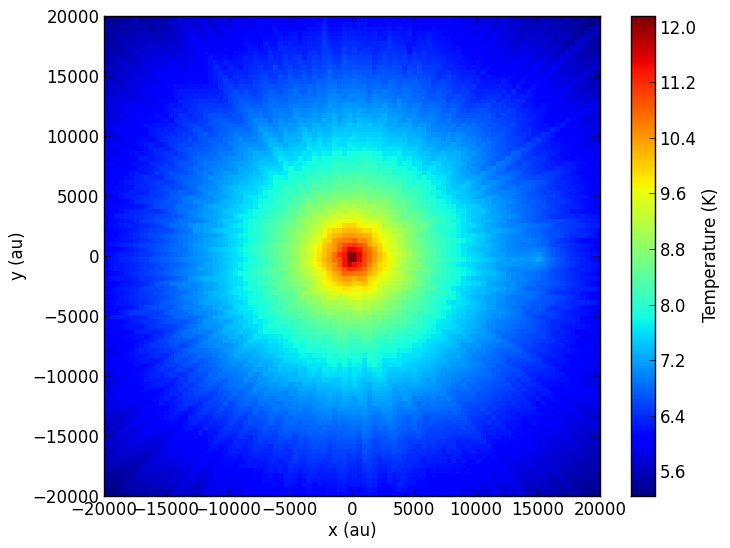
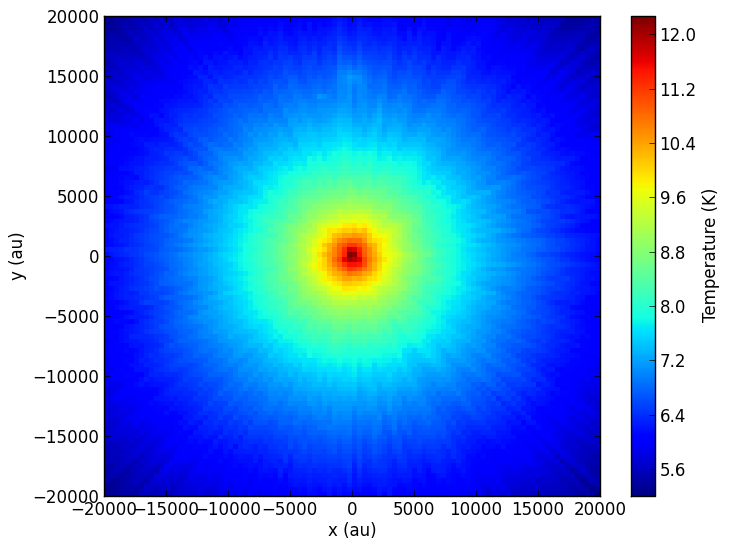
now viewed from z direction

diff --git a/visual.py b/visual.py
@@ -5,7 +5,7 @@ from hyperion.model import ModelOutput
 from hyperion.util.constants import pc, au
 
 # Read in the model
-m = ModelOutput('input_withoutproxima.rtout')
+m = ModelOutput('input_lessdense.rtout')
 
 # Extract the quantities
 g = m.get_quantities()
@@ -18,8 +18,8 @@ X, Y = np.meshgrid(xw, yw)
 
 # Calculate the density-weighted temperature
 weighted_temperature =  np.sum(g['temperature'][0].array \
-                               * g['density'][0].array, axis=2)\
-                        / np.sum(g['density'][0].array, axis=2)
+                               * g['density'][0].array, axis=0)\
+                        / np.sum(g['density'][0].array, axis=0)
 
 # Make the plot
 fig = plt.figure()
@@ -31,7 +31,7 @@ ax.set_xlabel('x (au)')
 ax.set_ylabel('y (au)')
 cb = fig.colorbar(c)
 cb.set_label('Temperature (K)')
-fig.savefig('weighted_temperature_cartesian_withoutproxima.png', bbox_inches='tight')
+fig.savefig('weighted_temperature_cartesian_lessdense.pdf', bbox_inches='tight')
 
 fig = plt.figure()
 ax = fig.add_subplot(1,1,1)
@@ -42,4 +42,4 @@ ax.set_xlabel('x (au)')
 ax.set_ylabel('y (au)')
 cb = fig.colorbar(c)
 cb.set_label('Temperature (K)')
-fig.savefig('sliced_temperature_cartesian_withoutproxima.png', bbox_inches='tight')
+fig.savefig('sliced_temperature_cartesian_lessdense.png', bbox_inches='tight')
